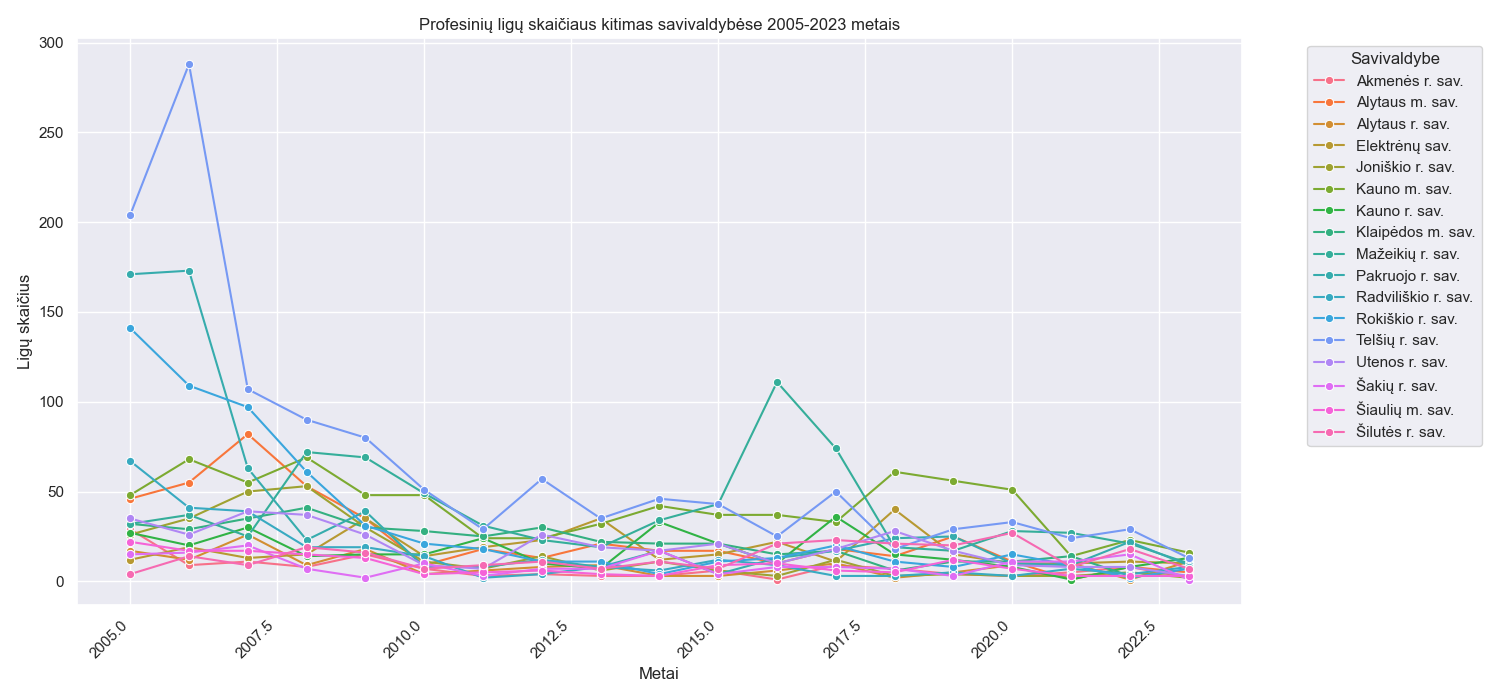
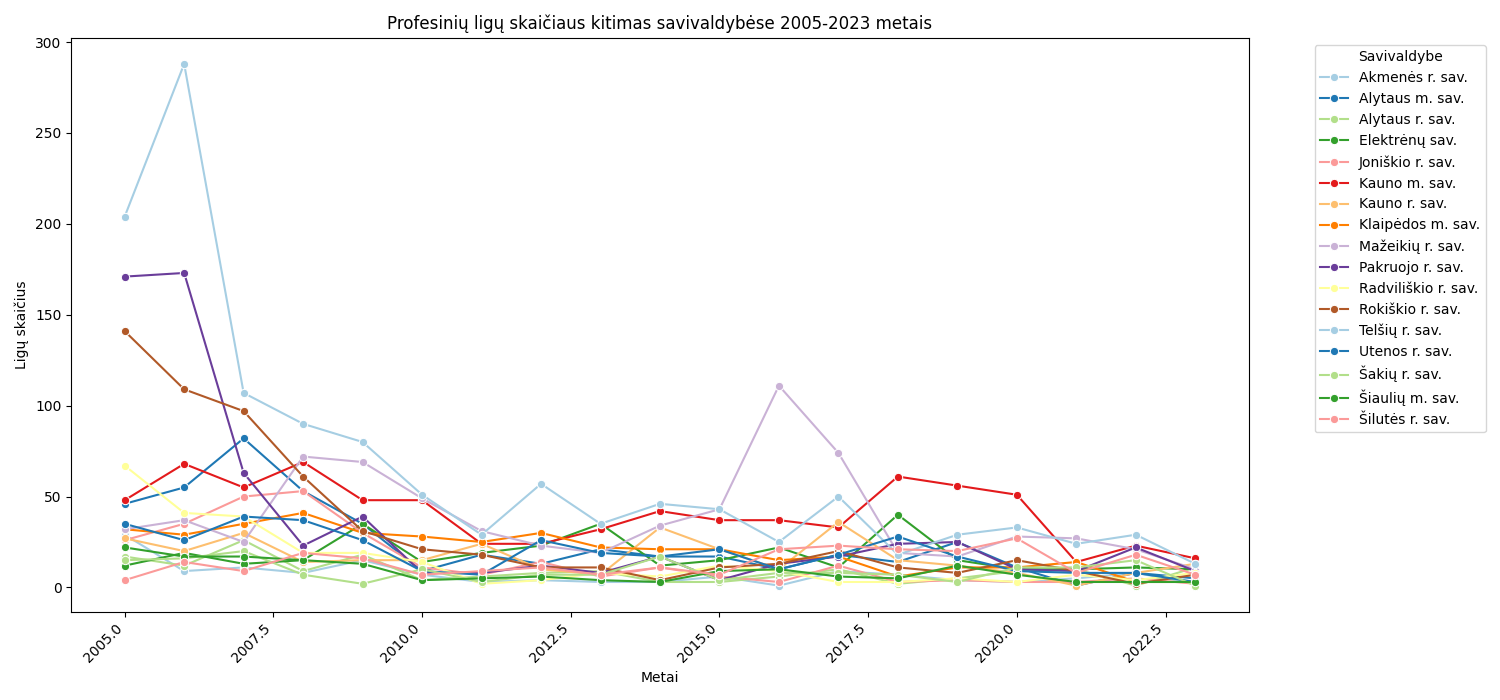
Atnaujinimas

diff --git a/analize.py b/analize.py
@@ -66,10 +66,11 @@ def kitimas_metais():
     rezultatas = rezultatas.dropna()
 
     rezultato_ilgis = rezultatas.reset_index().melt(id_vars='savivaldybe', var_name='year', value_name='count')
-    sns.set_theme(style="darkgrid")
+    palette = sns.color_palette("Paired", n_colors=len(rezultato_ilgis['savivaldybe'].unique()))
+    # sns.set_theme(style="darkgrid")
     plt.figure(figsize=(15, 7))
-    sns.lineplot(data=rezultato_ilgis, x='year', y='count', hue='savivaldybe', marker='o')
-    sns.color_palette("dark:#5A9_r", as_cmap=True)
+    sns.lineplot(data=rezultato_ilgis, x='year', y='count', hue='savivaldybe', marker='o', palette=palette)
+    # sns.color_palette("dark:#5A9_r", as_cmap=True)
     plt.title(f'Profesinių ligų skaičiaus kitimas savivaldybėse {year_start}-{year_end} metais')
     plt.xlabel('Metai')
     plt.ylabel('Ligų skaičius')
@@ -125,8 +126,8 @@ def regresija():
 
 
 
-# kitimas_metais()
-pagal_savivaldybes()
+kitimas_metais()
+# pagal_savivaldybes()
 # profesiniu_lig_daz(2019)
 # lytis()
 # regresija()
